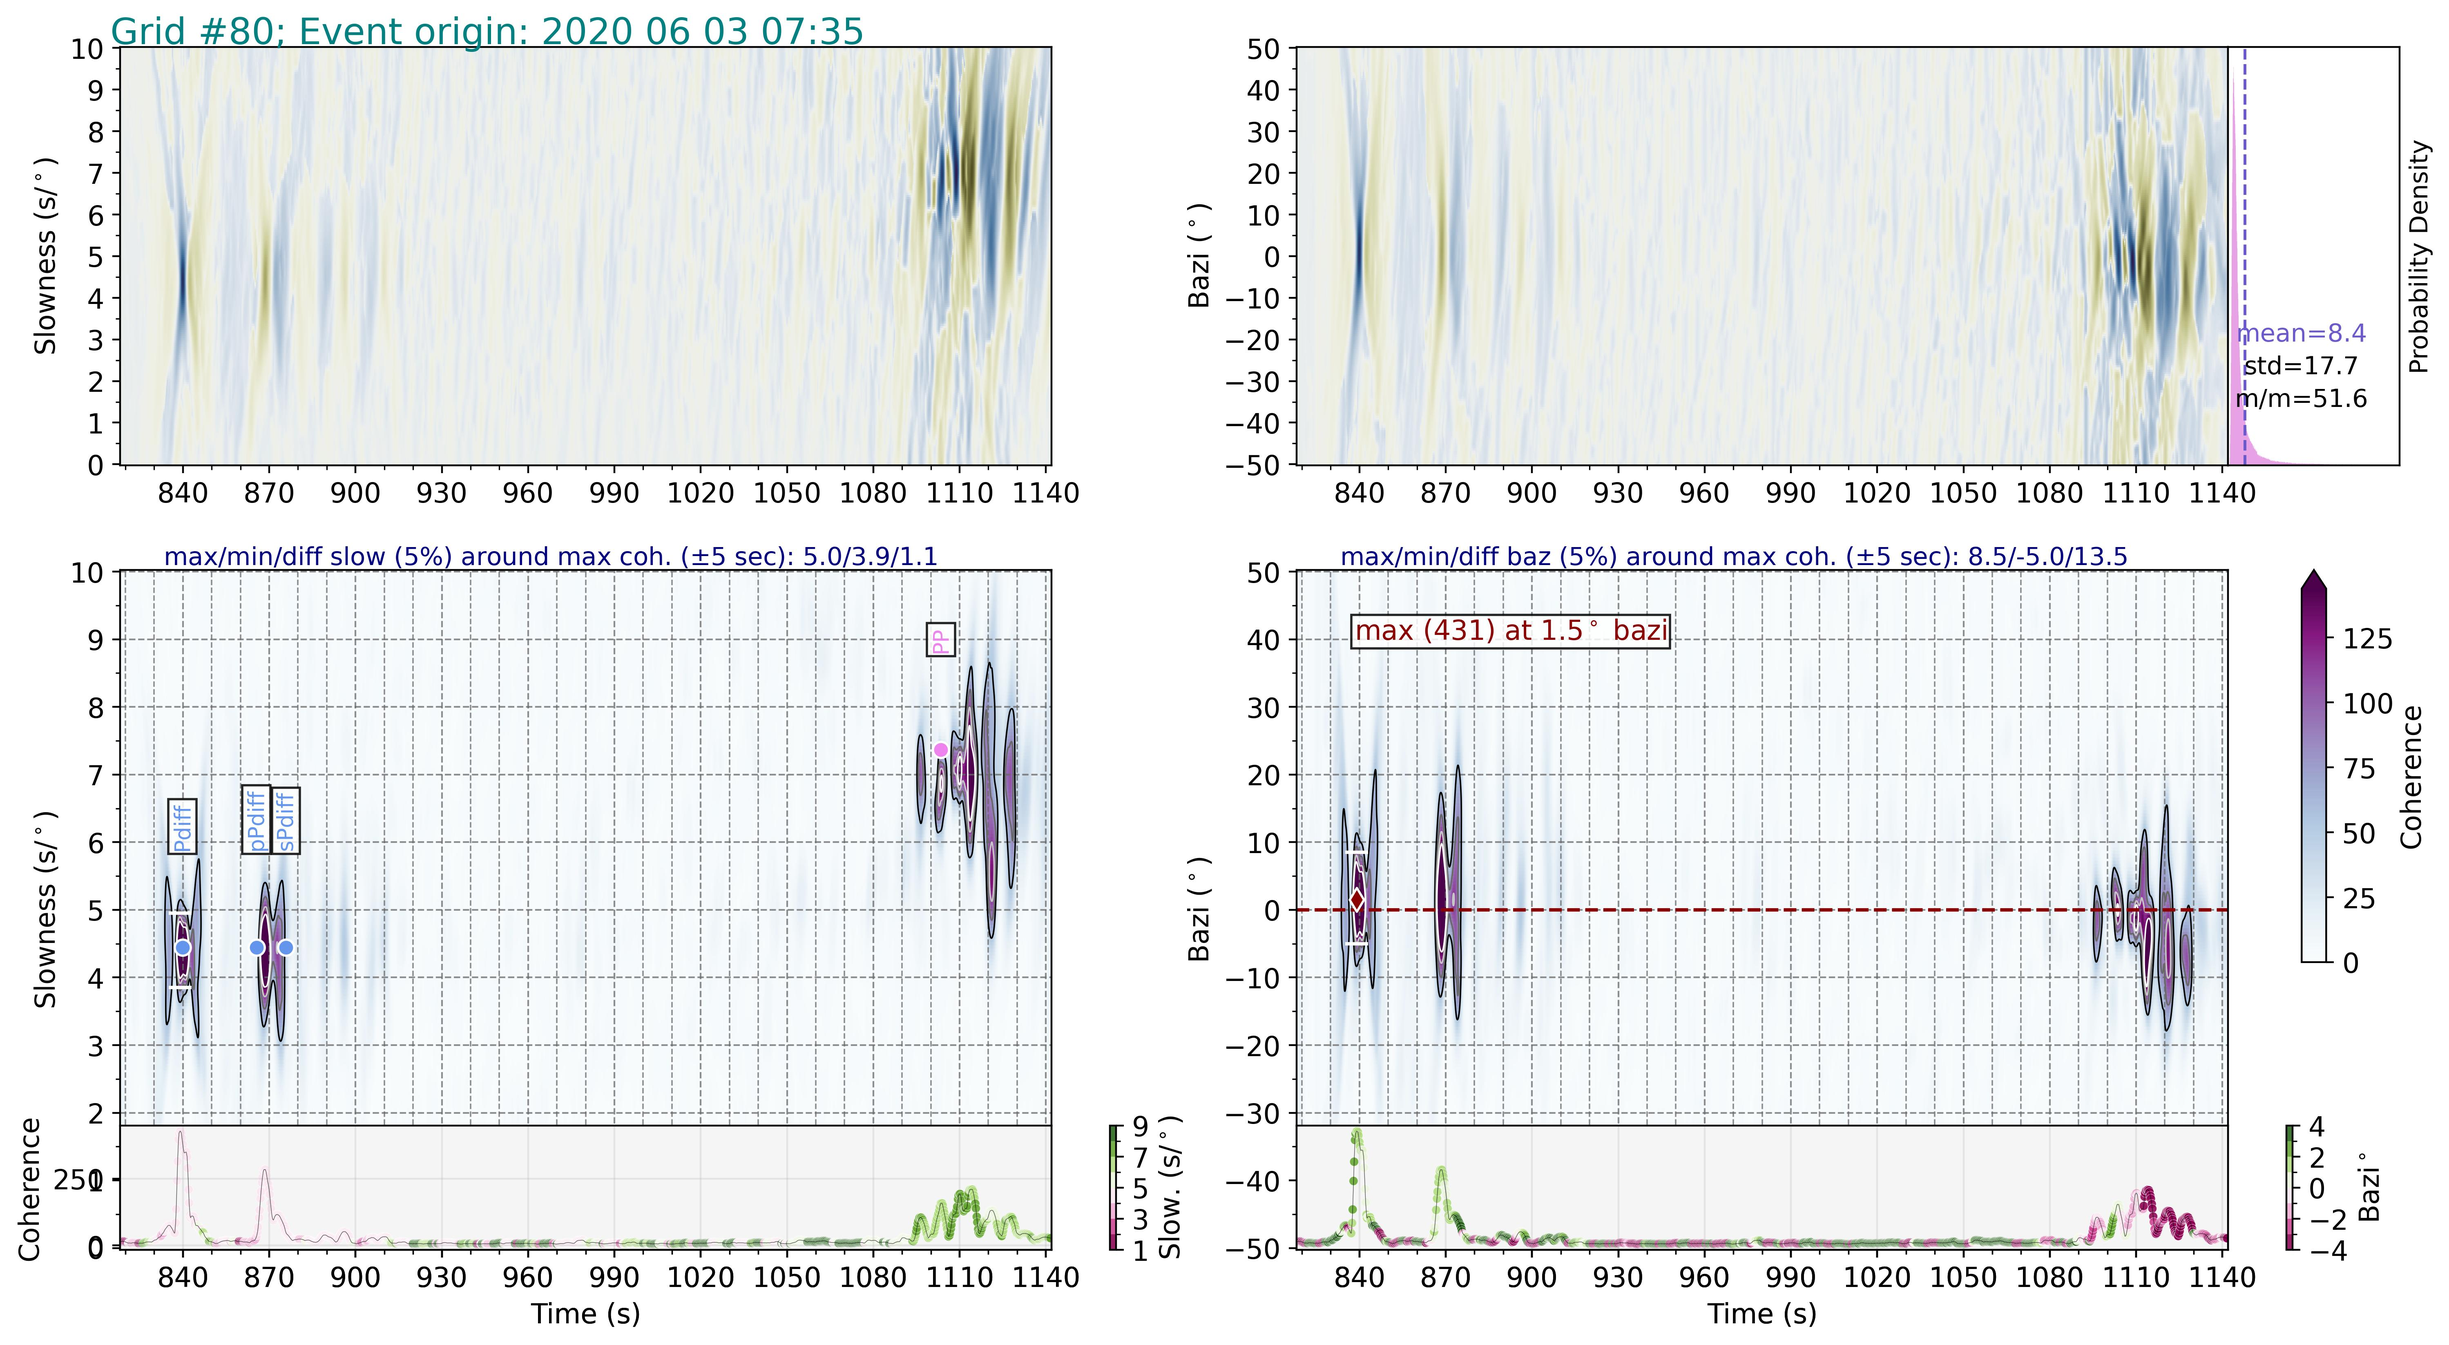
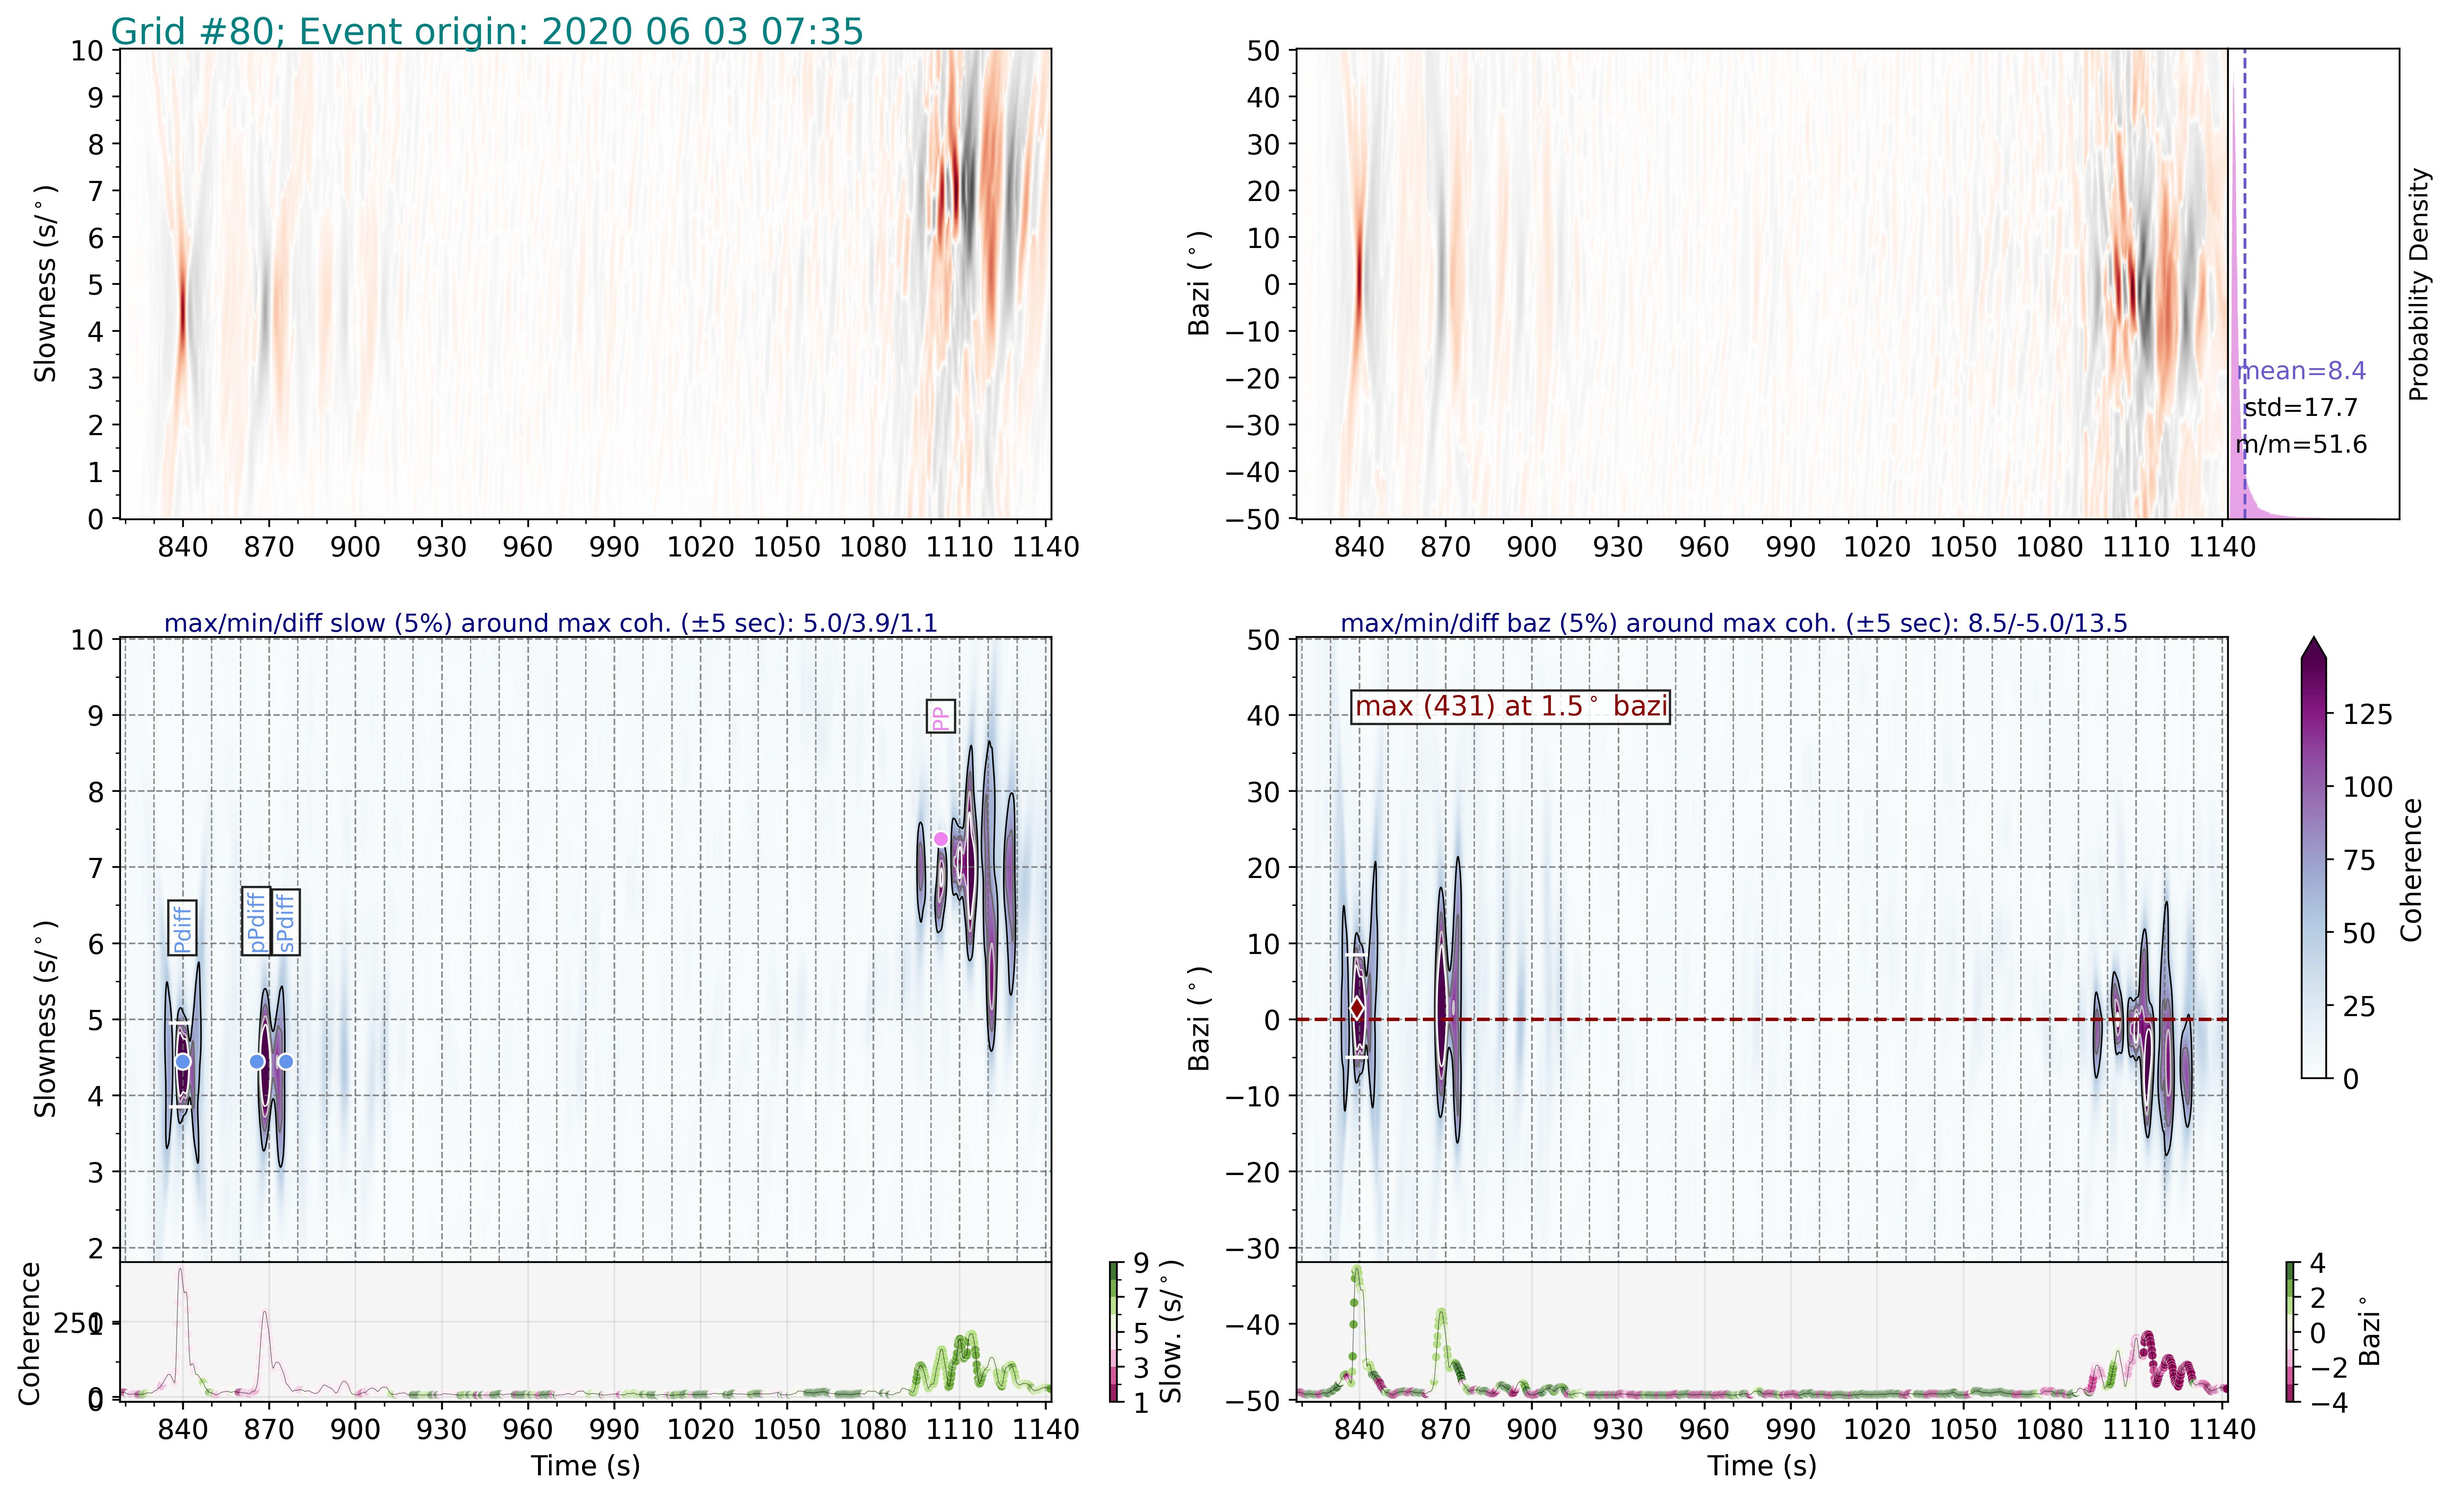
small fixes

diff --git a/visualize_beam_simple.py b/visualize_beam_simple.py
@@ -4,6 +4,12 @@
 # - grds (beam slow/baz and XF slow/baz) in grid_folder
 # - datapack txt files in folder named 'data_pack' (eg. Datapack_gridnum23_20221109_0938_.05_.5Hz_60samps_Zcomp_BPPCbase_num32_PP_Y_Y_3.0_Y_-1)
 # two empty folder named 'pick_folder' and 'py_figs'. Former is for saving chosen values from vespagrams.
+#
+# tested on Py3.9.
+# Shubh Agrawal
+# 11th August 2025.
+# USC, SC
+###
 import matplotlib as mpl
 import matplotlib.pyplot as plt
 import numpy as np
@@ -29,9 +35,9 @@ from scipy.stats import norm, skewnorm, kurtosis
 from matplotlib.colors import ListedColormap
 ##############################################################
 # you might have to install these.
-from cmcrameri import cm
 import xarray as xr
 import pygmt
+# from cmcrameri import cm
 # from IPython import get_ipython # uncomment if using Ipython.
 ####
 # to be able to select points of interest on vespagram, you will need to download: https://mpl-point-clicker.readthedocs.io/en/latest/index.html
@@ -417,7 +423,7 @@ for folder in matching_folders:
         # Plotting bit starts.
         # should move all analysis before this.
 
-        fig = plt.figure(figsize=(15, 8))
+        fig = plt.figure(figsize=(15, 9))
         # values are: [left, bottom, width, height]
         ax1 = fig.add_axes([0.05, 0.05, 0.38, 0.52]) # slow XF
         ax2 = fig.add_axes([0.53, 0.05, 0.38, 0.52]) #  baz XF
@@ -468,8 +474,8 @@ for folder in matching_folders:
         baz_grd.plot(ax=ax2,cmap=sm_alpha,add_colorbar=False,vmin=0,vmax=region_baz[5]/plot_amp_factor,mouseover=True)
         baz_grd.plot.contour(ax=ax2,cmap='Greys_r',linewidths=.65,add_colorbar=False,levels=np.linspace(region_baz[5]/8, region_baz[5]/plot_amp_factor, 4))
 
-        slow_grd_bm.plot(ax=ax4,cmap=cm.broc,add_colorbar=False,mouseover=True)
-        baz_grd_bm.plot(ax=ax5,cmap=cm.broc,add_colorbar=False,mouseover=True)
+        slow_grd_bm.plot(ax=ax4,cmap=cmm.RdGy,add_colorbar=False,mouseover=True)
+        baz_grd_bm.plot(ax=ax5,cmap=cmm.RdGy,add_colorbar=False,mouseover=True)
 
         # gets max 5% around max in slow/baz grids! A quality measure, if you will.
         # grd,x_max,window_size,percent=slow_grd,x_max_slow,5,.05
@@ -665,7 +671,10 @@ for folder in matching_folders:
 
             fig_name=py_figs+'picks_gridnum_{}_{}_{}_trail.jpg'.format(grid_number,utc_dt,'II')
 
-            plt.savefig(fig_name,dpi=400,bbox_inches='tight', pad_inches=0.1)
+            # plt.savefig(fig_name,dpi=400,bbox_inches='tight', pad_inches=0.1)
+            plt.savefig('example_plot_vespapack.jpg',dpi=400,bbox_inches='tight', pad_inches=0.1)
+
+
 
 
         # plt.close('all')
